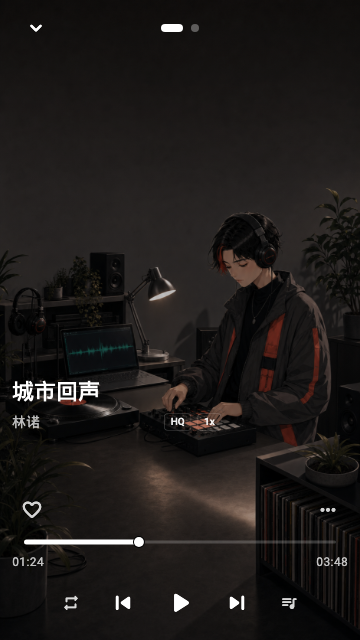
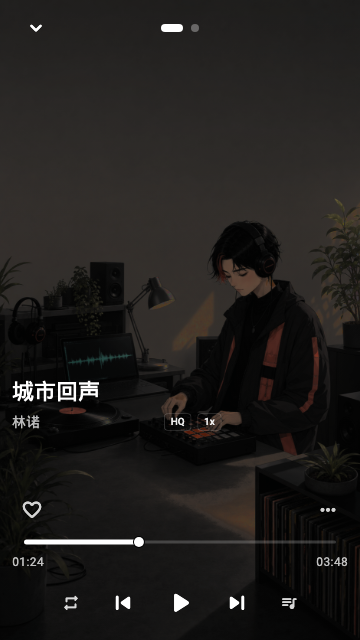
fix(skin): 修复城市皮肤深浅背景位移

diff --git a/test/app/theme/skin/city_sound_creator_assets_test.dart b/test/app/theme/skin/city_sound_creator_assets_test.dart
@@ -21,12 +21,12 @@ const _light = _WallpaperContract(
 const _dark = _WallpaperContract(
   sourcePath:
       'assets/skins/city_sound_creator/sources/'
-      'wallpaper_dark_provider_v2.png',
+      'wallpaper_dark_graded_v1.png',
   sourceHash:
[2 lines of base64/hex data omitted]
   productionPath: 'assets/skins/city_sound_creator/wallpaper_dark.png',
   productionHash:
[2 lines of base64/hex data omitted]
 );
 
 const _lightPreview = _PreviewContract(
@@ -36,7 +36,7 @@ const _lightPreview = _PreviewContract(
 
 const _darkPreview = _PreviewContract(
   path: 'assets/skins/city_sound_creator/preview_dark.png',
[2 lines of base64/hex data omitted]
 );
 
 const _iconDirectory = 'assets/skins/city_sound_creator/icons';
@@ -66,9 +66,14 @@ void main() {
     expect(provenance, contains('upscaled=true'));
     expect(provenance, contains('ImageMagick `7.1.2-13 Q16-HDRI`'));
     expect(provenance, contains('Face restoration: disabled'));
+    expect(provenance, contains('Deterministic dark grade correction'));
+    expect(provenance, contains('no spatial transform'));
     expect(
       provenance,
-      contains('Final user approval of the 2x derivatives: approved'),
+      contains(
+        'Replacement dark derivative approval: approved by the user on '
+        '2026-07-27',
+      ),
     );
   });
 

diff --git a/test/features/player/presentation/player_style_preview_golden_test.dart b/test/features/player/presentation/player_style_preview_golden_test.dart
@@ -167,7 +167,7 @@ void main() {
     expect(
       provenance,
       contains(
[2 lines of base64/hex data omitted]
       ),
     );
   });

diff --git a/assets/skins/city_sound_creator/LICENSES.md b/assets/skins/city_sound_creator/LICENSES.md
@@ -3,8 +3,8 @@
 ## Release status
 
 - Light provider source: approved by the user on 2026-07-17.
-- Dark provider source: approved by the user on 2026-07-17.
-- Production derivatives: 2x processing, technical inspection, and user approval completed on 2026-07-17.
+- Original dark provider source and derivative: approved by the user on 2026-07-17; the source remains as a palette/provenance reference and its derivative was replaced on 2026-07-27.
+- Deterministic dark grade source, replacement production derivative, real UI previews, player previews, and existing Rive alignment: approved by the user on 2026-07-27.
 - Runtime packaging: `pubspec.yaml` declares only runtime production assets (wallpaper derivatives, real UI previews, and the SVG catalog); provider sources and review files are excluded.
 
 ## Generation provider
@@ -26,7 +26,7 @@
[1 lines of base64/hex data omitted]
 - Approval: user approved the provider original on 2026-07-17.
 
-## Dark provider source
+## Original dark provider source
 
 - Path: `assets/skins/city_sound_creator/sources/wallpaper_dark_provider_v2.png`.
 - Actual dimensions: `941x1672`.
@@ -36,6 +36,19 @@
[2 lines of base64/hex data omitted]
 - Approval: user approved the provider original on 2026-07-17.
+- Current role: retained as the approved night-palette reference; it is no longer the geometry or production-derivative source.
+
+## Deterministic dark grade correction
+
+- Path: `assets/skins/city_sound_creator/sources/wallpaper_dark_graded_v1.png`.
+- Actual dimensions: `941x1672`.
[3 lines of base64/hex data omitted]
+- Processing: deterministic ImageMagick HSL channel math, saturation multiplier `0.90`, continuous lightness curve, and `8%` `#101413` color blend.
+- Geometry contract: every output pixel reads only the same input coordinate; no spatial transform, crop, resize, blur, sharpen, generative edit, face restoration, or local redraw is used.
+- Deterministic output: PNG time/date metadata is stripped; an independent full replay passed byte comparison and produced the same SHA-256.
+- Candidate visual approval: approved on 2026-07-27.
 
 ## Production processing
 
@@ -45,7 +58,7 @@
 - Backend: ImageMagick `7.1.2-13 Q16-HDRI`, arm64.
 - Parameters: exact `1882x3344` resize, PNG output, `quality=95`, no crop, no sharpening, no generative enhancement.
 - Face restoration: disabled; the processing pipeline has no face-restoration stage.
-- Processing count: one production upscale per approved provider original.
+- Processing count: one current production upscale per approved source; the replacement dark derivative uses the approved deterministic grade source.
 
 ### Light production derivative
 
@@ -60,14 +73,15 @@
 
 - Path: `assets/skins/city_sound_creator/wallpaper_dark.png`.
 - Actual dimensions: `1882x3344`.
[1 lines of base64/hex data omitted]
-- Source: `wallpaper_dark_provider_v2.png`.
[1 lines of base64/hex data omitted]
+- Source: `wallpaper_dark_graded_v1.png`.
 - Scale: `2x`.
 - Upscaled: `true`.
+- Output normalization: PNG time/date metadata stripped; a second independent resize produced the same bytes and SHA-256.
 
 ## Technical inspection
 
-The 2x derivatives were inspected at full frame and in local detail crops on 2026-07-17.
+The original 2x derivatives were inspected at full frame and in local detail crops on 2026-07-17.
 
 - Face and light/dark character identity: pass.
 - Hands, fingers, and sampler interaction: pass.
@@ -75,6 +89,14 @@ The 2x derivatives were inspected at full frame and in local detail crops on 202
 - Halos, jagged edges, amplified noise, and invented detail: no blocking issue found.
 - Text, logos, signatures, watermarks, and extra people: no blocking issue found.
 - Final user approval of the 2x derivatives: approved on 2026-07-17.
+
+The replacement dark derivative was inspected at full frame and local detail on 2026-07-27.
+
+- Source/production dimensions, hashes, deterministic replay, and zero spatial-transform contract: pass.
+- Face, hands, headphones, waveform display, turntable, sampler, plants, and record shelf: pass.
+- Halos, jagged edges, amplified noise, invented detail, text, logos, watermarks, and extra people: no blocking issue found.
+- Alignment against the light source: same pixel geometry by construction; blink/side-by-side review passed.
+- Replacement dark derivative approval: approved by the user on 2026-07-27 after real UI, player-preview, and existing Rive alignment review.
 
 ## Semantic icon catalog
 
@@ -105,7 +127,7 @@ The 2x derivatives were inspected at full frame and in local detail crops on 202
 - Test fonts: Roboto Regular, Medium, and Bold plus a 14 KB Chinese glyph subset derived from Android Open Source Project's Droid Sans Fallback, all under Apache License 2.0. The files, subset glyph manifest, provenance, and license are retained under `test/assets/fonts/` and are not declared as runtime assets.
 - Material fallback icons: loaded from the Material Icons font already declared by Flutter's `uses-material-design` contract.
 - Technical inspection: both previews show the decoded production wallpaper, readable Chinese text, production SVGs, Material fallbacks, mini player, and navigation without blank regions or overlaps. The current revision uses a roughly `48%` white readability overlay in light mode; scrolling Items are transparent in both brightness modes and transparent surfaces do not draw shadows.
-- Approval: the user approved the original real-UI preview stage on 2026-07-17; the later contrast revision remains pending visual confirmation.
+- Approval: the user approved the original real-UI preview stage on 2026-07-17 and the current light/dark preview pair with the replacement dark wallpaper on 2026-07-27.
 
 ### Light real UI preview
 
@@ -117,7 +139,7 @@ The 2x derivatives were inspected at full frame and in local detail crops on 202
 
 - Path: `assets/skins/city_sound_creator/preview_dark.png`.
 - Actual dimensions: `360x640`.
[2 lines of base64/hex data omitted]
 
 ## Rive ambient animation
 
@@ -143,9 +165,9 @@ The 2x derivatives were inspected at full frame and in local detail crops on 202
   runtime loaded and rendered 120 preview frames and entered `ambient_loop`;
   the Flutter runtime integration tests load the bundled bytes and named State
   Machine.
-- Approval: the user approved V2 for an in-App trial on 2026-07-20. Final
-  Android visual, lifecycle, frame pacing, GPU, and memory acceptance remains
-  pending.
+- Approval: the user approved V2 for an in-App trial on 2026-07-20 and approved
+  its alignment with the replacement dark wallpaper on 2026-07-27. Final Android
+  lifecycle, frame pacing, GPU, and memory acceptance remains pending.
 
 ## Usage note
 

diff --git a/assets/player_styles/artist_photo/LICENSES.md b/assets/player_styles/artist_photo/LICENSES.md
@@ -11,15 +11,14 @@
 
 ## Artist photo source
 
-- Provider source path: `assets/skins/city_sound_creator/sources/wallpaper_dark_provider_v2.png`.
-- Source record: `assets/skins/city_sound_creator/LICENSES.md`, sections "Dark provider source" and "Dark production derivative".
-- Provider: `sub2api`, an OpenAI-compatible provider.
-- Model: `gpt-image-2` via the `openai-image-api` workflow.
-- Requested size: `2160x3840`; provider original size: `941x1672`.
[1 lines of base64/hex data omitted]
+- Current source path: `assets/skins/city_sound_creator/sources/wallpaper_dark_graded_v1.png`.
+- Source record: `assets/skins/city_sound_creator/LICENSES.md`, sections "Light provider source", "Deterministic dark grade correction", and "Dark production derivative".
+- Provider lineage: the geometry source was generated by `sub2api` with `gpt-image-2` via the `openai-image-api` workflow, then converted to the approved dark source using deterministic same-coordinate HSL processing.
+- Geometry-source dimensions: `941x1672`.
[1 lines of base64/hex data omitted]
 - Runtime preview input: `assets/skins/city_sound_creator/wallpaper_dark.png`, deterministic `1882x3344` production derivative.
[1 lines of base64/hex data omitted]
-- Approval and license: the source and its deterministic derivative were approved by the user on 2026-07-17 for use as a project application asset.
[1 lines of base64/hex data omitted]
+- Approval and license: the deterministic dark source and final generated player previews were approved by the user on 2026-07-27.
 
 ## Generated preview hashes
 
@@ -27,6 +26,7 @@
[5 lines of base64/hex data omitted]
 - Technical inspection: all five previews render readable fixed Chinese text, metadata badges, playback time and controls without blank regions or overflow; classic, fluid, vinyl, cassette and artist-photo subjects are visually distinct.
-- Review status: automated golden and technical inspection completed on 2026-07-23; final product visual approval remains with the user.
+- Replacement inspection: regenerated on 2026-07-27; only the artist-photo mobile preview and desktop golden changed, while the other four style previews and both artist-photo fallback goldens remained byte-identical.
+- Review status: automated golden and technical inspection completed; final product visual approval completed by the user on 2026-07-27.
